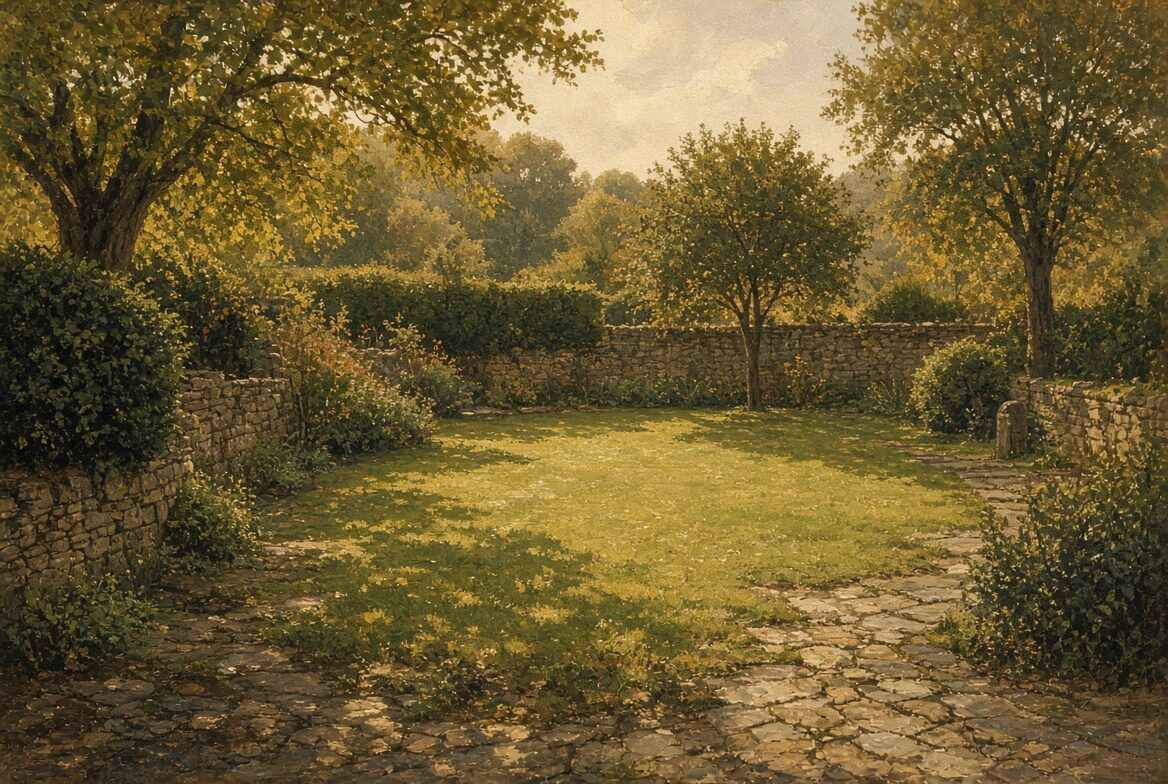
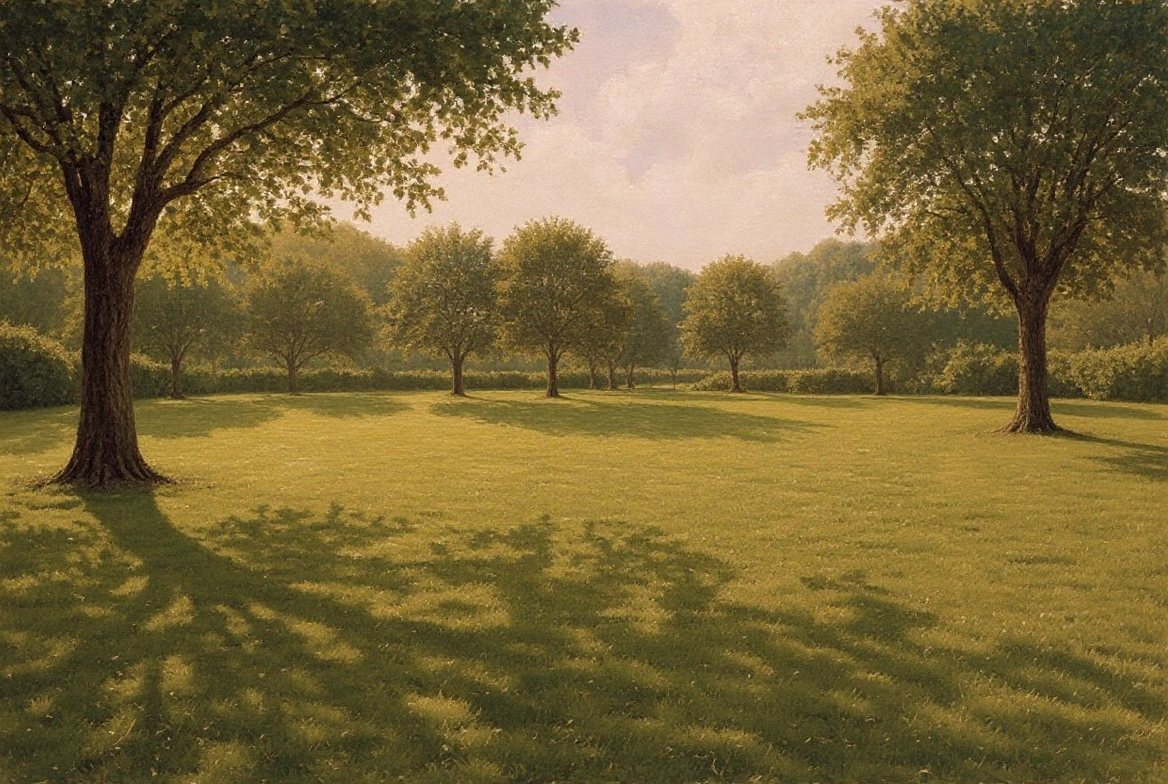
Churchyard: calm, empty yard paintings and a soft gravel path
The five yard paintings are Kontext edits of the owner's own with every
flower, headstone and path cleared, so plantings stand on plain grass instead
of on a second flowerbed. scripts/gen-churchyard.py also repaints plantings,
statues and buildings onto the same paths ownerArt.ts reads.

Claude-Session: https://claude.ai/code/session_01GVxnKhCiKBs22rrCbD4ABT

diff --git a/src/features/church/ChurchScene.tsx b/src/features/church/ChurchScene.tsx
@@ -278,8 +278,14 @@ export function ChurchScene({
           width: 120,
           height: GROUND + 6,
           transform: 'translateX(-50%)',
-          background: 'linear-gradient(0deg, rgba(236,214,168,0.75), rgba(236,214,168,0.35))',
+          // Over a painted yard (which carries no path of its own since the
+          // 2026-11-12 repaint) it is a warm, soft-edged gravel track that fades
+          // toward the door; a hard pale trapezoid read as a beam of light.
+          background: backdrop
+            ? 'linear-gradient(0deg, rgba(196,168,118,0.62), rgba(214,190,140,0.18))'
+            : 'linear-gradient(0deg, rgba(236,214,168,0.75), rgba(236,214,168,0.35))',
           clipPath: 'polygon(0% 100%, 100% 100%, 60% 0%, 40% 0%)',
+          filter: backdrop ? 'blur(1.2px)' : undefined,
         }}
       />
 

diff --git a/scripts/gen-churchyard.py b/scripts/gen-churchyard.py
@@ -1,0 +1,177 @@
+#!/usr/bin/env python3
+"""Repaint the churchyard as ONE calm hand (art/churchyard.flux.json).
+
+    python3 scripts/gen-churchyard.py scenes|flora|statues|buildings [--only id,id] [--force] [--dry]
+
+Scenes: Flux Pro Ultra, written over public/church/scene_*.jpg at 1168x784.
+Flora and statues: a master drawn from text, every other one a Flux Kontext
+EDIT of its master (one light, palette and scale), cut out by birefnet,
+trimmed and written at the height the owner's set used (300 / 360px).
+Buildings: a Kontext edit of each existing building (architecture kept,
+ground patch removed), written at 440px tall.
+Files land on the SAME paths ownerArt.ts / sceneArt.ts already read, so no
+code changes. --dry writes previews to art/churchyard/preview only.
+The fal.ai key is a network secret injected by the environment's proxy.
+"""
+import io, json, os, sys, time, urllib.request
+sys.path.insert(0, os.path.join(os.path.dirname(__file__), 'avatar'))
+sys.path.insert(0, os.path.dirname(__file__))
+import numpy as np
+from PIL import Image
+from layers import kontext, _get, H
+import importlib
+icons = importlib.import_module('gen-icons')  # text_to_image + cutout (birefnet)
+
+ROOT = os.path.abspath(os.path.join(os.path.dirname(__file__), '..'))
+M = json.load(open(os.path.join(ROOT, 'art', 'churchyard.flux.json')))
+RAW = os.path.join(ROOT, 'art', 'churchyard', '.raw')
+PREV = os.path.join(ROOT, 'art', 'churchyard', 'preview')
+os.makedirs(RAW, exist_ok=True); os.makedirs(PREV, exist_ok=True)
+
+FLORA_OUT = {
+    'yard_planters': 'planters', 'yard_ivy': 'ivy', 'yard_marigolds': 'marigolds',
+    'yard_lavender': 'lavender', 'yard_lilies': 'lilies', 'yard_olive': 'olive',
+    'yard_rosebush': 'roses', 'yard_bench': 'bench', 'yard_hedge': 'hedge',
+    'yard_birdbath': 'birdbath', 'yard_lamp': 'lamp', 'yard_wisteria': 'wisteria',
+    'yard_sunflowers': 'sunflowers', 'yard_dogwood': 'dogwood',
+}
+STATUE_OUT = {
+    'statue_shepherd': 'good-shepherd', 'statue_mary': 'virgin-mary', 'statue_moses': 'moses',
+    'statue_angel': 'guardian-angel', 'statue_david': 'david', 'statue_dove': 'descending-dove',
+    'statue_tomb': 'empty-tomb', 'statue_lion_lamb': 'lion-and-lamb',
+    'statue_praying': 'praying-figure', 'statue_cross': 'stone-cross',
+}
+BUILDINGS = ['modest', 'small', 'tower', 'parish', 'modern', 'glass']
+
+
+def ultra(prompt, aspect):
+    body = {"prompt": prompt, "aspect_ratio": aspect, "output_format": "jpeg", "num_images": 1, "safety_tolerance": "2"}
+    req = urllib.request.Request("https://queue.fal.run/" + M["scene_model"], data=json.dumps(body).encode(), headers=H)
+    r = json.load(urllib.request.urlopen(req, timeout=60))
+    for _ in range(150):
+        if _get(r["status_url"])["status"] == "COMPLETED":
+            break
+        time.sleep(2)
+    url = _get(r["response_url"])["images"][0]["url"]
+    return Image.open(io.BytesIO(urllib.request.urlopen(url, timeout=60).read())).convert("RGB")
+
+
+def cut(raw_path, height):
+    """birefnet cutout, faint halo dropped, trimmed to the object, scaled to `height`."""
+    cp = raw_path.replace('.png', '.cut.png')
+    if not os.path.exists(cp) or os.path.getmtime(cp) < os.path.getmtime(raw_path):
+        icons.cutout(Image.open(raw_path).convert('RGB')).save(cp)
+    im = Image.open(cp).convert('RGBA')
+    a = np.asarray(im).copy()
+    a[..., 3] = np.where(a[..., 3] < 24, 0, a[..., 3])
+    im = Image.fromarray(a, 'RGBA')
+    im = im.crop(im.getbbox())
+    w = max(1, round(im.width * height / im.height))
+    return im.resize((w, height), Image.LANCZOS)
+
+
+def put(img, rel, dry, key):
+    img.save(os.path.join(PREV, key + ('.jpg' if rel.endswith('.jpg') else '.png')))
+    if dry:
+        return
+    p = os.path.join(ROOT, rel)
+    if rel.endswith('.jpg'):
+        img.save(p, 'JPEG', quality=84, optimize=True, progressive=True)
+    else:
+        img.save(p, optimize=True)
+
+
+def scenes(only, force, dry):
+    for sid, sub in M['scenes'].items():
+        if only and sid not in only:
+            continue
+        rp = os.path.join(RAW, sid + '.jpg')
+        if force or not os.path.exists(rp):
+            # An EDIT of the owner's own painting, not a new one: the hand, the
+            # light and the horizon (which ChurchScene's GROUND is set to) are
+            # kept, and only the clutter is cleared. A text-to-image yard came
+            # back flat, with a high horizon and a toy church in the middle.
+            src = os.path.join(RAW, sid + '.orig.jpg')
+            if not os.path.exists(src):
+                Image.open(os.path.join(ROOT, 'public/church', sid + '.jpg')).save(src, quality=95)
+            kontext(M['scene_edit'] + ' ' + sub, Image.open(src).convert('RGB')).save(rp, quality=95)
+        im = Image.open(rp).convert('RGB')
+        w, h = 1168, 784
+        r = max(w / im.width, h / im.height)
+        im = im.resize((round(im.width * r), round(im.height * r)), Image.LANCZOS)
+        l, t = (im.width - w) // 2, (im.height - h) // 2
+        put(im.crop((l, t, l + w, t + h)), f'public/church/{sid}.jpg', dry, sid)
+        print('ok', sid, flush=True)
+
+
+def props(kind, only, force, dry):
+    master = M[kind + '_master']
+    table = M[kind if kind == 'flora' else 'statues']
+    outmap = FLORA_OUT if kind == 'flora' else STATUE_OUT
+    height = 300 if kind == 'flora' else 360
+    folder = 'public/keep/churchyard' + ('' if kind == 'flora' else '/statues')
+    style = M['prop_style'] + (' ' + M['statue_style_note'] if kind == 'statue' else '')
+    mp = os.path.join(RAW, master['id'] + '.png')
+    if (force and (not only or master['id'] in only)) or not os.path.exists(mp):
+        icons.text_to_image(style.replace('ONE object', 'ONE object: ' + master['subject'])).save(mp)
+    if not only or master['id'] in only:
+        put(cut(mp, height), f"{folder}/{outmap[master['id']]}.png", dry, master['id'])
+        print('ok', master['id'], flush=True)
+    base = Image.open(mp).convert('RGB')
+    todo = [(k, v) for k, v in table.items() if not only or k in only]
+
+    def one(kv):
+        k, sub = kv
+        p = os.path.join(RAW, k + '.png')
+        if force or not os.path.exists(p):
+            kontext(f"Replace the object with {sub}. Keep EXACTLY the same soft painted gouache style, muted warm "
+                    "palette, gentle top-left light, front-on eye-level view, scale and centring, and the same "
+                    "solid flat magenta background. Only that one object, upright and whole: no ivy, no vines, no "
+                    "gold, no ornament, no soil, rocks, grass or ground under it, no shadow, no text.", base).save(p)
+        put(cut(p, height), f'{folder}/{outmap[k]}.png', dry, k)
+        return k
+
+    from concurrent.futures import ThreadPoolExecutor
+    with ThreadPoolExecutor(4) as ex:
+        for k in ex.map(one, todo):
+            print('ok', k, flush=True)
+
+
+def buildings(only, force, dry):
+    from concurrent.futures import ThreadPoolExecutor
+
+    def one(name):
+        p = os.path.join(RAW, 'church-' + name + '.png')
+        if force or not os.path.exists(p):
+            src = Image.open(os.path.join(ROOT, 'public/church/buildings', f'church-{name}.png')).convert('RGBA')
+            bg = Image.new('RGB', (src.width + 160, src.height + 160), (255, 0, 255))
+            bg.paste(src, (80, 80), src)
+            kontext("Repaint this church building in a soft, simple hand-painted gouache storybook style: the same "
+                    "architecture, shape, roof, windows and door, but cleaner and calmer, muted warm stone colours, "
+                    "gentle top-left light, less fine texture. REMOVE everything around its base: no grass, no "
+                    "shrubs, no flowers, no ground patch, no steps spilling out, no shadow. The building alone on a "
+                    "solid flat magenta background.", bg).save(p)
+        put(cut(p, 440), f'public/church/buildings/church-{name}.png', dry, 'church-' + name)
+        return name
+
+    todo = [n for n in BUILDINGS if not only or n in only or 'church-' + n in only]
+    with ThreadPoolExecutor(3) as ex:
+        for n in ex.map(one, todo):
+            print('ok', n, flush=True)
+
+
+def main():
+    a = sys.argv[1:]
+    what = a[0]
+    only = set(a[a.index('--only') + 1].split(',')) if '--only' in a else None
+    force, dry = '--force' in a, '--dry' in a
+    if what == 'scenes':
+        scenes(only, force, dry)
+    elif what in ('flora', 'statue', 'statues'):
+        props('flora' if what == 'flora' else 'statue', only, force, dry)
+    elif what == 'buildings':
+        buildings(only, force, dry)
+
+
+if __name__ == '__main__':
+    main()

diff --git a/CLAUDE.md b/CLAUDE.md
@@ -2114,6 +2114,15 @@ which is the one number the slot produces and the only thing to renew on.
 
 ### The churchyard
 
+**The yard was repainted calm on 2026-11-12** (`scripts/gen-churchyard.py`,
+`art/churchyard.flux.json`): the five yard paintings are Kontext EDITS of the
+owner's own (same hand, light and horizon) with every flower, headstone and
+path cleared, because the backdrop's own flowerbeds plus the plantings on top
+read as busy. Plantings, statues and buildings are repainted by the same script
+onto the SAME paths `ownerArt.ts` reads (plain silhouettes, no ivy, no gold, no
+mound of soil), so no code changes; over a painted yard the drawn path is a
+soft gravel track.
+
 Giving grows the building for everybody; the same points, counted as *your*
 lifetime giving, open the landscaping you plant in front of it. Eight plants,
 six plots, thresholds from 250 to 120,000 given — `features/church/yard.ts` and
